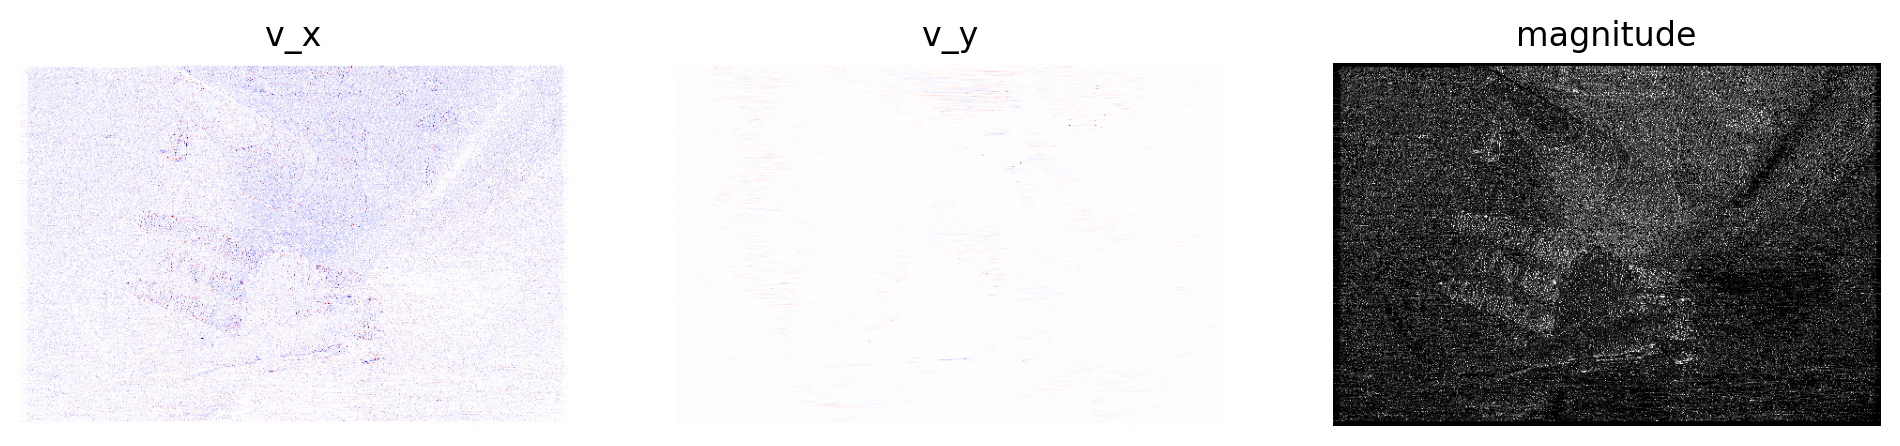
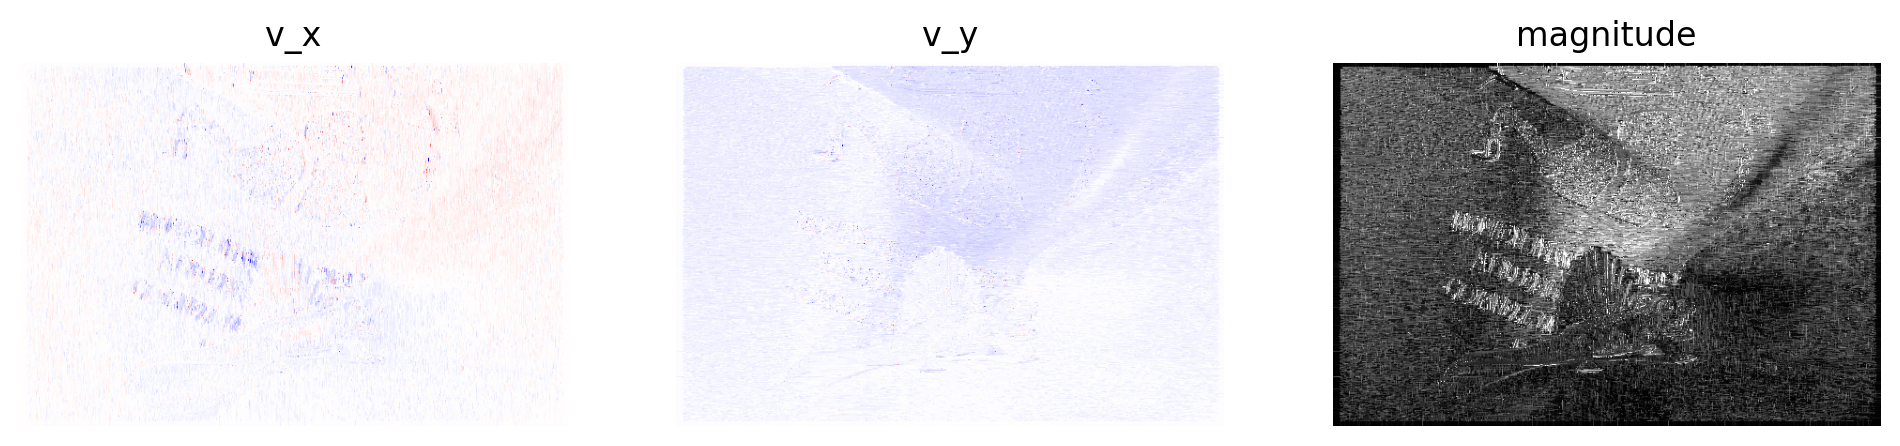
a bug with the gradient index for the operators got fixed and a folder TimonTest is added for tests of a collegue

diff --git a/inverse_problems/motion_estimation/L2-L2OpticalFlow.py b/inverse_problems/motion_estimation/L2-L2OpticalFlow.py
@@ -26,6 +26,8 @@ img1_np = np.array(img1).astype(np.float32)
 img2_np = np.array(img2).astype(np.float32)
 
 
+
+
 print("The 2-distance is:", np.linalg.norm(img2_np-img1_np))
 # dimensions
 inputDimension = list(img1_np.shape)
@@ -33,10 +35,10 @@ nPx = img1_np.size
 
 
 # flatten image for operator
-img1_vec = img1_np.flatten()
+img1_vec = img1_np.flatten(order="F")
 
 # initialise solver
-solver = FlexBoxSolver(maxIt=1000, tol=1e-6, verbose=1)
+solver = FlexBoxSolver(maxIt=10000, tol=1e-6, verbose=1)
 
 # primal variables
 dim = len(inputDimension)
@@ -67,7 +69,7 @@ opticalFlowOp2 = {
 
 # compute -u_t as the data
 if(dim == 2):
-    negUT = -(img2_np - img1_np)/timeStep
+    negUT = (-(img2_np - img1_np)/timeStep).flatten(order="F")
 
 #TODO ab hier weiter anpassen
 solver.add_dual(
@@ -121,8 +123,8 @@ plt.axis("off")
 v_vec1 = v_out[0]
 v_vec2 = v_out[1]
 
-result_1 = v_vec1.reshape(inputDimension)
-result_2 = v_vec2.reshape(inputDimension)
+result_1 = v_vec1.reshape(inputDimension, order="F")
+result_2 = v_vec2.reshape(inputDimension, order="F")
 
 magnitude = np.sqrt(result_1**2 + result_2**2)
 

diff --git a/inverse_problems/motion_estimation/L1-TVOpticalFlow.py b/inverse_problems/motion_estimation/L1-TVOpticalFlow.py
@@ -33,10 +33,10 @@ nPx = img1_np.size
 
 
 # flatten image for operator
-img1_vec = img1_np.flatten()
+img1_vec = img1_np.flatten(order="F")
 
 # initialise solver
-solver = FlexBoxSolver(maxIt=1000, tol=1e-6, verbose=1)
+solver = FlexBoxSolver(maxIt=10000, tol=1e-6, verbose=1)
 
 # primal variables
 dim = len(inputDimension)
@@ -67,7 +67,7 @@ opticalFlowOp2 = {
 
 # compute -u_t as the data
 if(dim == 2):
-    negUT = -(img2_np - img1_np)/timeStep
+    negUT = -((img2_np - img1_np)/timeStep).flatten(order="F")
 
 #TODO ab hier weiter anpassen
 solver.add_dual(
@@ -121,8 +121,8 @@ plt.axis("off")
 v_vec1 = v_out[0]
 v_vec2 = v_out[1]
 
-result_1 = v_vec1.reshape(inputDimension)
-result_2 = v_vec2.reshape(inputDimension)
+result_1 = v_vec1.reshape(inputDimension, order="F")
+result_2 = v_vec2.reshape(inputDimension, order="F")
 
 magnitude = np.sqrt(result_1**2 + result_2**2)
 

diff --git a/inverse_problems/motion_estimation/L2-TVOpticalFlow.py b/inverse_problems/motion_estimation/L2-TVOpticalFlow.py
@@ -33,10 +33,10 @@ nPx = img1_np.size
 
 
 # flatten image for operator
-img1_vec = img1_np.flatten()
+img1_vec = img1_np.flatten(order="F")
 
 # initialise solver
-solver = FlexBoxSolver(maxIt=1000, tol=1e-6, verbose=1)
+solver = FlexBoxSolver(maxIt=10000, tol=1e-6, verbose=1)
 
 # primal variables
 dim = len(inputDimension)
@@ -67,7 +67,7 @@ opticalFlowOp2 = {
 
 # compute -u_t as the data
 if(dim == 2):
-    negUT = -(img2_np - img1_np)/timeStep
+    negUT = -((img2_np - img1_np)/timeStep).flatten(order="F")
 
 #TODO ab hier weiter anpassen
 solver.add_dual(
@@ -121,8 +121,8 @@ plt.axis("off")
 v_vec1 = v_out[0]
 v_vec2 = v_out[1]
 
-result_1 = v_vec1.reshape(inputDimension)
-result_2 = v_vec2.reshape(inputDimension)
+result_1 = v_vec1.reshape(inputDimension, order="F")
+result_2 = v_vec2.reshape(inputDimension, order="F")
 
 magnitude = np.sqrt(result_1**2 + result_2**2)
 